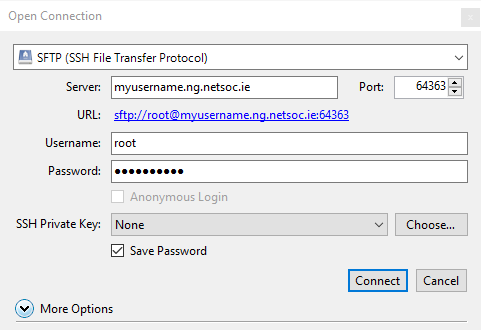
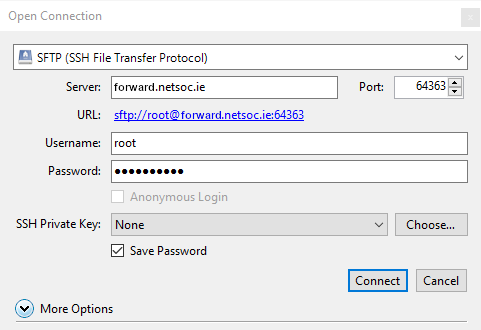
docs: Update to match new environment

Changed region(s): [[0.2183, 0.2424, 0.5301, 0.303], [0.3742, 0.3333, 0.7484, 0.3636]]

diff --git a/docs/guides/domains.md b/docs/guides/domains.md
@@ -23,21 +23,20 @@ same. In this guide we'll use [Cloudflare](https://www.cloudflare.com/)
 
 ### CNAME record
 
-The main DNS record you'll need is a `CNAME` or "alias" record. This makes sure
+The main DNS record you'll need is a `CNAME` or `ALIAS` record. This makes sure
 that any requests to your domain are routed to Netsoc's servers. The target for
-the `CNAME` record should be `webspaced.netsoc.ie`. See below for an example:
+the `CNAME` record should be **`ws-http.netsoc.ie`**. See below for an example:
 
 ![Cloudflare CNAME record](../assets/dns_cname.png)
 
-!!! note
+!!! tip
     If you're using Cloudflare, click the cloud icon to disable proxying, it's
     not needed with webspaces.
 
 !!! note
     Some DNS providers might not allow you to put a `CNAME` record at the root
     of your domain. In this case, create an `A` record instead with the
-    following IP address: `80.111.124.111`. Note that this is unfortunately
-    due to change in the future as we upgrade servers. Other providers might
+    following IP address: `134.226.83.100`. Other providers might
     allow you to create a `CNAME` record at the root, but won't correctly set up
     the DNS to point to our servers. You should also try an `A` record if a
     sucessfully created `CNAME` isn't working.

diff --git a/docs/guides/port_forwarding.md b/docs/guides/port_forwarding.md
@@ -95,15 +95,15 @@ webspace! When prompted for a password, enter the same one used with
 `netsoc webspace init`.
 
 === "Linux / macOS"
-    Run `ssh root@myusername.netsoc.ie` (use your own external port):
+    Run `ssh root@forward.netsoc.ie` (use your own external port):
 
     ```
-    $ ssh root@myusername.netsoc.ie -p 64363
-    The authenticity of host '[myusername.netsoc.ie]:64363 ([80.111.124.111]:64363)' can't be established.
+    $ ssh root@forward.netsoc.ie -p 64363
+    The authenticity of host '[forward.netsoc.ie]:64363 ([80.111.124.111]:64363)' can't be established.
     ECDSA key fingerprint is SHA256:zB48NdWJQw1ZJztrt5NdTstgdl5Zj0tEuqOjc914zEs.
     Are you sure you want to continue connecting (yes/no/[fingerprint])? yes
-    Warning: Permanently added '[myusername.netsoc.ie]:64363,[80.111.124.111]:64363' (ECDSA) to the list of known hosts.
-    root@myusername.netsoc.ie's password:
+    Warning: Permanently added '[forward.netsoc.ie]:64363,[80.111.124.111]:64363' (ECDSA) to the list of known hosts.
+    root@forward.netsoc.ie's password:
     Welcome to Ubuntu 20.04.1 LTS (GNU/Linux 5.4.71-netsoc-lxd8s x86_64)
 
     * Documentation:  https://help.ubuntu.com

diff --git a/docs/guides/file_transfer.md b/docs/guides/file_transfer.md
@@ -13,7 +13,7 @@ the site. With SSH configured, you can transfer files via SCP or SFTP.
 terminal, run it like this:
 
 ```bash
-scp -P 64363 /path/to/local/file.txt root@myusername.netsoc.ie:/remote/path/
+scp -P 64363 /path/to/local/file.txt root@forward.netsoc.ie:/remote/path/
 ```
 
 Don't forget to change the port based on your configured SSH forwarding port!

diff --git a/docs/environment.md b/docs/environment.md
@@ -5,9 +5,9 @@
 Each container has the following resources (subject to increase when we get more
 servers!):
 
-- 1 vCPU
-- 1GiB RAM
-- 8GiB storage
+- 4 vCPU
+- 4GiB RAM
+- 32GiB storage
 
 ## Boot policy
 
